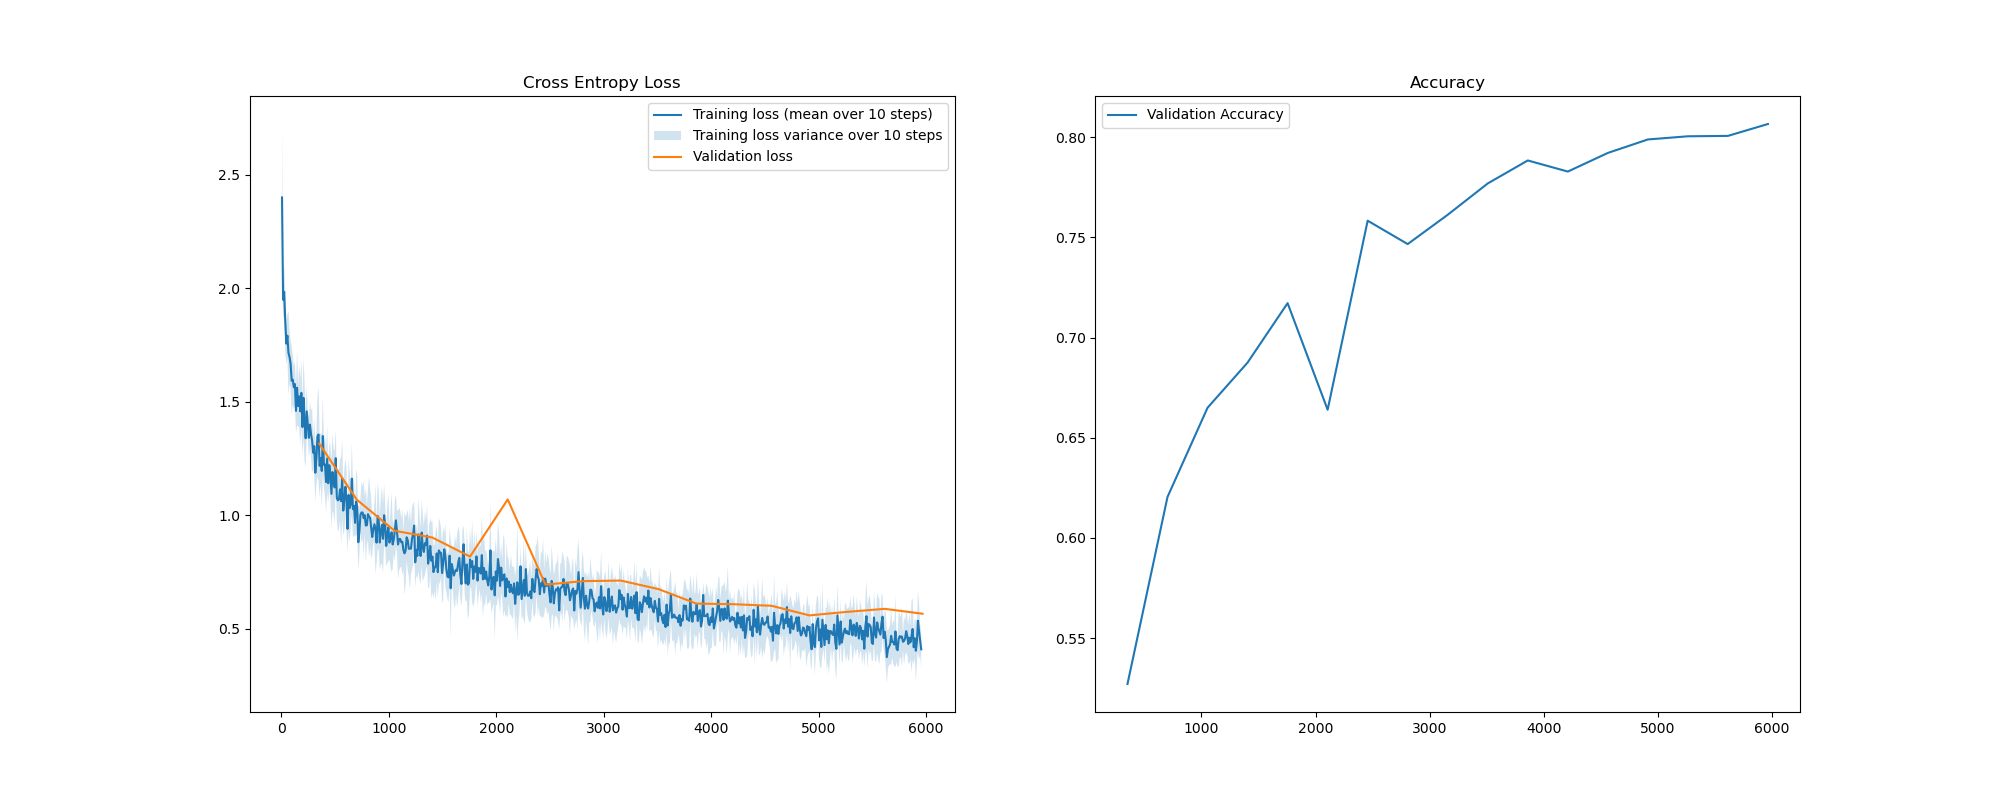
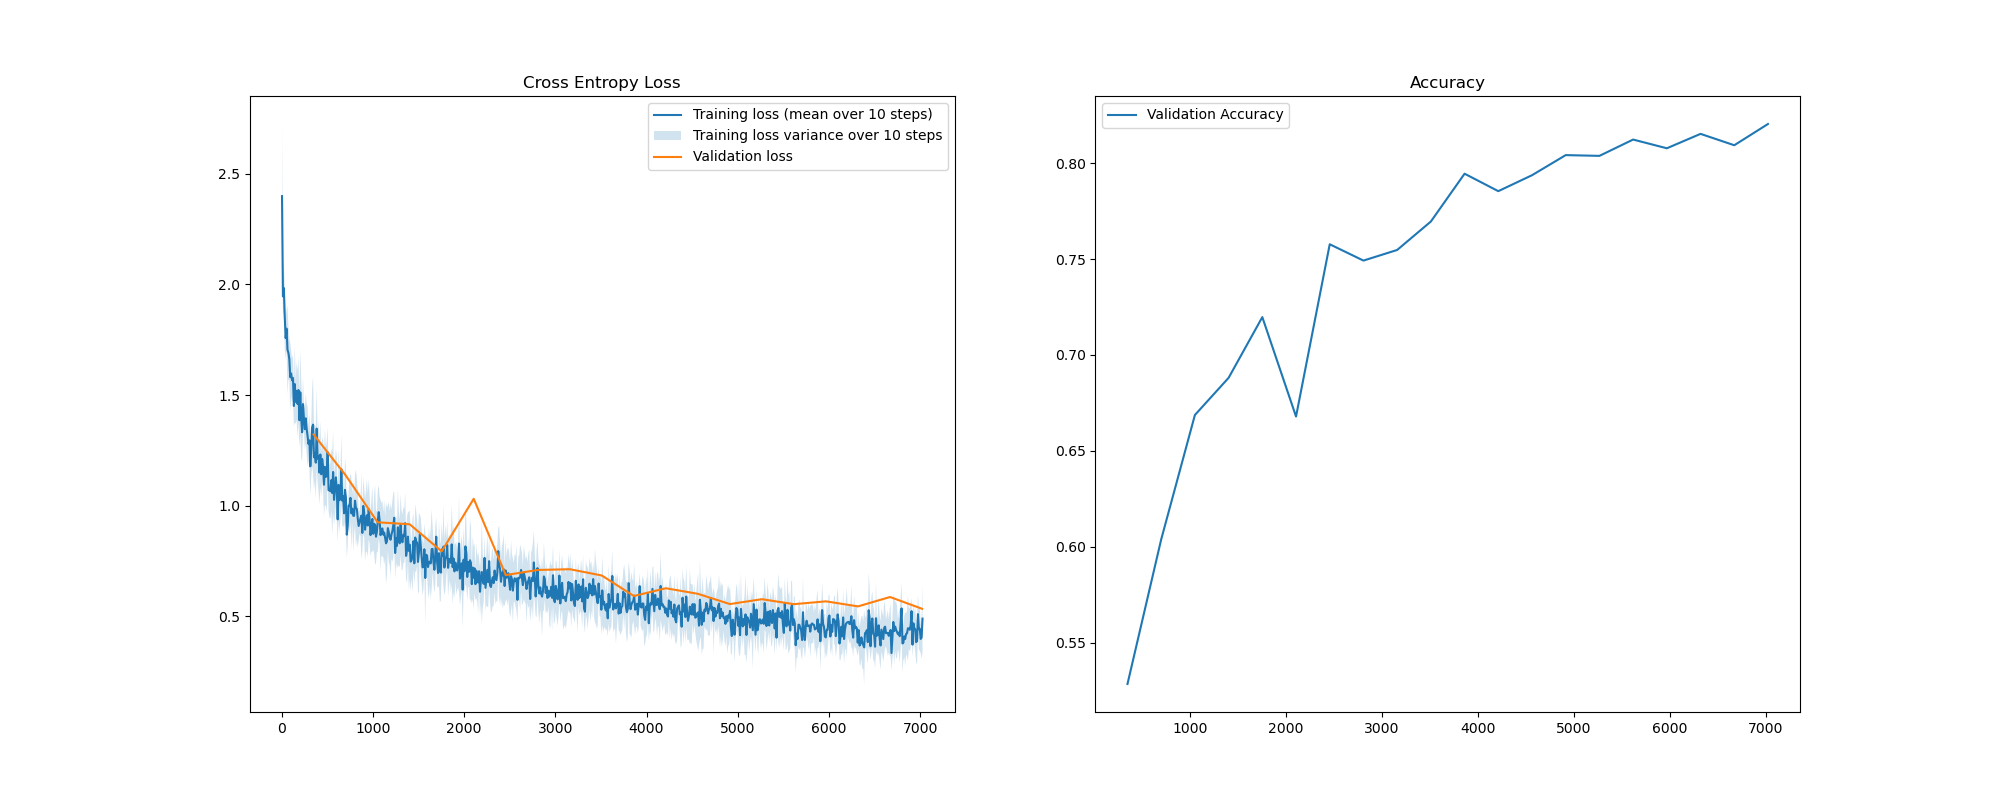
task3d

diff --git a/assignment3/task3_2.py b/assignment3/task3_2.py
@@ -1,0 +1,230 @@
+
+import pathlib
+import matplotlib.pyplot as plt
+import utils
+import torch
+from torch import nn
+from dataloaders import load_cifar10, load_cifar10_with_data_augmentation
+from trainer import Trainer, compute_loss_and_accuracy
+from torchsummary import summary
+
+
+##Task 3a
+#Model from task2 copied as a starting point
+
+
+class Task3Model(nn.Module):
+    def __init__(self, image_channels, num_classes):
+        """
+        Is called when model is initialized.
+        Args:
+            image_channels. Number of color channels in image (3)
+            num_classes: Number of classes we want to predict (10)
+        """
+        super().__init__()
+        # TODO: Implement this function (Task  2a)
+        num_filters = 64  # Set number of filters in first conv layer
+        self.num_classes = num_classes
+        # Define the convolutional layers
+        """
+            After the first layer the output of feature_extractor would be [batch_size, num_filters, 32, 32]
+            maxpool with stride=2 will half the size of the output (from 32L and 32 W to 16L and 16W)
+            After the MaxPool2d layer the output of feature_extractor would be [batch_size, num_filters, 16, 16]
+            that means after both the first convv and Pool layer  we would have:
+            self.num_output_features = 32 * 16 * 16
+
+            Formula for output size of conv layer:
+            Width :
+            W2 = [(W1 -FW + 2PW )/SW ] + 1
+        """
+
+        self.feature_extractor = nn.Sequential(
+            #layer1
+            nn.Conv2d(
+                in_channels=image_channels,
+                out_channels=num_filters,
+                kernel_size=3,
+                stride=1,
+                padding=1,
+            ),
+            nn.BatchNorm2d(num_filters),
+            nn.ELU(),
+            #layer2
+            nn.Conv2d(
+                in_channels=num_filters,
+                out_channels=num_filters,
+                kernel_size=3,
+                stride=1,
+                padding=1,
+            ),
+            nn.BatchNorm2d(num_filters),
+            nn.ELU(),
+            nn.MaxPool2d(kernel_size=2, stride=2),
+
+            #layer3
+            nn.Conv2d(
+                in_channels=num_filters,
+                out_channels=num_filters*2,
+                kernel_size=3,
+                stride=1,
+                padding=1,
+            ),
+            nn.BatchNorm2d(num_filters*2),
+            nn.ELU(),
+            #layer4
+            nn.Conv2d(
+                in_channels=num_filters*2,
+                out_channels=num_filters*2,
+                kernel_size=3,
+                stride=1,
+                padding=1,
+            ),
+            nn.BatchNorm2d(num_filters*2),
+            nn.ELU(),
+            nn.MaxPool2d(kernel_size=2, stride=2),
+            #layer5
+            nn.Conv2d(
+                in_channels=num_filters*2,
+                out_channels=num_filters*4,
+                kernel_size=3,
+                stride=1,
+                padding=1,
+            ),
+            nn.BatchNorm2d(num_filters*4),
+            nn.ELU(),
+            #layer6
+            nn.Conv2d(
+                in_channels=num_filters*4,
+                out_channels=num_filters*4,
+                kernel_size=3,
+                stride=1,
+                padding=1,
+            ),
+            nn.BatchNorm2d(num_filters*4),
+            nn.ELU(),
+            nn.MaxPool2d(kernel_size=2, stride=2),
+            #After this layer the output of feature_extractor would be [batch_size, num_filters * 4, 4, 4]
+
+            #layer7
+            nn.Conv2d(
+                in_channels=num_filters*4,
+                out_channels=num_filters*8,
+                kernel_size=3,
+                stride=1,
+                padding=1,
+            ),
+            nn.BatchNorm2d(num_filters*8),
+            nn.ELU(),
+            nn.Dropout(0.4), #p = 0.4 best score for now, with 64 filters
+
+            #layer8
+            nn.Conv2d(
+                in_channels=num_filters*8,
+                out_channels=num_filters*8,
+                kernel_size=3,
+                stride=1,
+                padding=1,
+            ),
+            nn.BatchNorm2d(num_filters*8),
+            nn.ELU(),
+            nn.MaxPool2d(kernel_size=2, stride=2),
+        )
+        #The output of feature_extractor will be [batch_size, num_filters * 4, 4, 4]
+        self.num_output_features = num_filters * 8 * 2 * 2  
+        # Initialize our last fully connected layer
+        # Inputs all extracted features from the convolutional layers
+        # Outputs num_classes predictions, 1 for each class. 
+        # There is no need for softmax activation function, as this is
+        # included with nn.CrossEntropyLoss
+
+        self.classifier = nn.Sequential(
+            nn.Flatten(),
+            #layer9
+            nn.Linear(self.num_output_features, num_filters * 2),
+            nn.ELU(),
+            #layer10
+            nn.Linear(num_filters * 2, num_classes),
+
+        )
+
+    def forward(self, x):
+        """
+        Performs a forward pass through the model
+        Args:
+            x: Input image, shape: [batch_size, 3, 32, 32]
+        """
+        # TODO: Implement this function (Task  2a)
+        features = self.feature_extractor(x)
+        #make sure to flatten/reshape/view inbetween Convolution(feature_extract) and fullyconnected (classification) 
+        out = self.classifier(features)
+        
+        batch_size = x.shape[0]
+        expected_shape = (batch_size, self.num_classes)
+        assert out.shape == (
+            batch_size,
+            self.num_classes,
+        ), f"Expected output of forward pass to be: {expected_shape}, but got: {out.shape}"
+        return out
+
+
+def create_plots(trainer: Trainer, name: str):
+    plot_path = pathlib.Path("plots")
+    plot_path.mkdir(exist_ok=True)
+    # Save plots and show them
+    plt.figure(figsize=(20, 8))
+    plt.subplot(1, 2, 1)
+    plt.title("Cross Entropy Loss")
+    utils.plot_loss(
+        trainer.train_history["loss"], label="Training loss", npoints_to_average=10
+    )
+    utils.plot_loss(trainer.validation_history["loss"], label="Validation loss")
+    plt.legend()
+
+    plt.subplot(1, 2, 2)
+    plt.title("Accuracy")
+    utils.plot_loss(trainer.validation_history["accuracy"], label="Validation Accuracy")
+    plt.legend()
+    plt.savefig(plot_path.joinpath(f"{name}_plot.png"))
+    plt.show()
+
+
+
+
+def main():
+    # Set the random generator seed (parameters, shuffling etc).
+    # You can try to change this and check if you still get the same result!
+    utils.set_seed(0)
+    print(f"Using device: {utils.get_device()}")
+    epochs = 10
+    batch_size = 64
+    learning_rate = 5e-2
+    early_stop_count = 4
+
+    
+    dataloaders = load_cifar10(batch_size)
+    dataloaders_with_data_augmentation = load_cifar10_with_data_augmentation(batch_size)
+
+    model = Task3Model(image_channels=3, num_classes=10)
+    trainer = Trainer(
+        batch_size, learning_rate, early_stop_count, epochs, model, dataloaders
+    )
+    trainer.train()
+    trainer2 = Trainer(
+        batch_size, learning_rate, early_stop_count, epochs, model, dataloaders_with_data_augmentation
+    )
+
+    
+
+
+    #try task 2b
+    train_loss, train_accuracy = compute_loss_and_accuracy(dataloaders[0], model, torch.nn.CrossEntropyLoss())
+    val_loss, val_accuracy = compute_loss_and_accuracy(dataloaders[1], model, torch.nn.CrossEntropyLoss())
+    test_loss, test_accuracy = compute_loss_and_accuracy(dataloaders[2], model, torch.nn.CrossEntropyLoss())
+    # Print the results
+    print(f"Training Loss: {train_loss:.4f}, Training Accuracy: {train_accuracy:.4f}")
+    print(f"Validation Loss: {val_loss:.4f}, Validation Accuracy: {val_accuracy:.4f}")
+    print(f"Test Loss: {test_loss:.4f}, Test Accuracy: {test_accuracy:.4f}")
+
+
+if __name__ == "__main__":
+    main()

diff --git a/assignment3/dataloaders.py b/assignment3/dataloaders.py
@@ -67,3 +67,57 @@ def load_cifar10(batch_size: int, validation_fraction: float = 0.1
                                                   num_workers=2)
 
     return dataloader_train, dataloader_val, dataloader_test
+
+
+
+
+def load_cifar10_with_data_augmentation(batch_size: int, validation_fraction: float = 0.1
+                 ) -> typing.List[torch.utils.data.DataLoader]:
+    # Note that transform train will apply the same transform for
+    # validation!
+    transform_train = transforms.Compose([
+        transforms.RandomHorizontalFlip(),
+        transforms.RandomRotation(10),
+        transforms.ToTensor(),
+        transforms.Normalize(mean, std),
+    ])
+    transform_test = transforms.Compose([
+        transforms.ToTensor(),
+        transforms.Normalize(mean, std)
+    ])
+    data_train = datasets.CIFAR10(get_data_dir(),
+                                  train=True,
+                                  download=True,
+                                  transform=transform_train)
+
+    data_test = datasets.CIFAR10(get_data_dir(),
+                                 train=False,
+                                 download=True,
+                                 transform=transform_test)
+
+    indices = list(range(len(data_train)))
+    split_idx = int(np.floor(validation_fraction * len(data_train)))
+
+    val_indices = np.random.choice(indices, size=split_idx, replace=False)
+    train_indices = list(set(indices) - set(val_indices))
+
+    train_sampler = SubsetRandomSampler(train_indices)
+    validation_sampler = SubsetRandomSampler(val_indices)
+
+    dataloader_train = torch.utils.data.DataLoader(data_train,
+                                                   sampler=train_sampler,
+                                                   batch_size=batch_size,
+                                                   num_workers=2,
+                                                   drop_last=True)
+
+    dataloader_val = torch.utils.data.DataLoader(data_train,
+                                                 sampler=validation_sampler,
+                                                 batch_size=batch_size,
+                                                 num_workers=2)
+
+    dataloader_test = torch.utils.data.DataLoader(data_test,
+                                                  batch_size=batch_size,
+                                                  shuffle=False,
+                                                  num_workers=2)
+
+    return dataloader_train, dataloader_val, dataloader_test

diff --git a/assignment3/trainer.py b/assignment3/trainer.py
@@ -76,11 +76,8 @@ class Trainer:
         print(self.model)
 
         # Define our optimizer. SGD = Stochastich Gradient Descent
-        #self.optimizer = torch.optim.SGD(self.model.parameters(), self.learning_rate)
-        self.optimizer = torch.optim.SGD(self.model.parameters(),
-                                         self.learning_rate,
-                                         weight_decay=1e-5)
-        
+        self.optimizer = torch.optim.SGD(self.model.parameters(), self.learning_rate)
+        #self.optimizer = torch.optim.SGD(self.model.parameters(), self.learning_rate,weight_decay=1e-5)
 
         # Load our dataset
         self.dataloader_train, self.dataloader_val, self.dataloader_test = dataloaders
